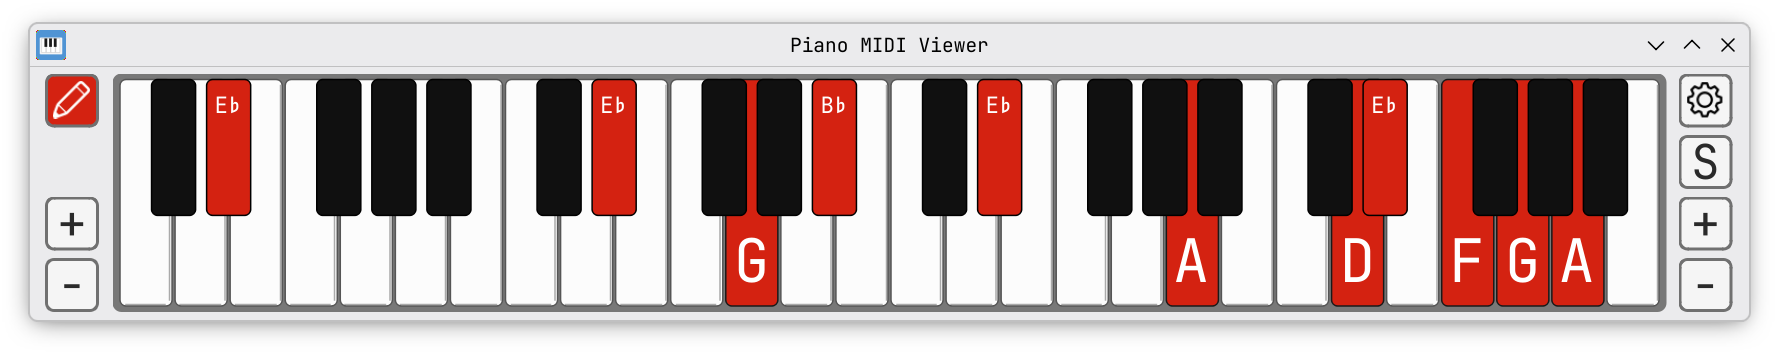
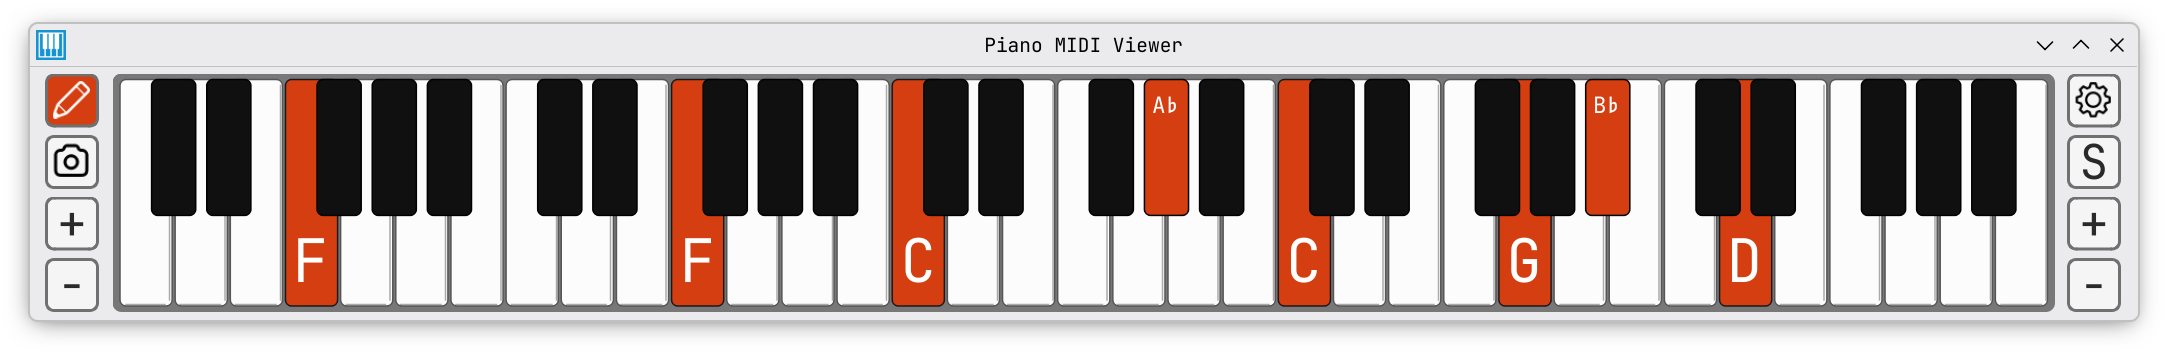
Update screenshots with velocity demonstration

diff --git a/README.md b/README.md
@@ -25,17 +25,17 @@ A piano keyboard on your screen that lights up when you play. Made for music tea
 
 *Default look*
 
-<img src="screenshots/sustained-blue-2-octaves.png" height="250">
+<img src="screenshots/sustained-blue-2-octaves-velocity.png" height="250">
 
-*Arch Blue, 2 octaves, showing sharps*
+*Arch Blue, 2 octaves, showing sharps, velocity brightness on*
 
 <img src="screenshots/pencil-tool-red-4-octaves.png" height="200">
 
 *Red, pencil tool active, 4 octaves, flats, labels only on pressed keys*
 
-<img src="screenshots/sustained-teal.png" height="250">
+<img src="screenshots/sustained-teal-1-octave-velocity.png" height="250">
 
-*Teal, both sharps and flats, no white key names*
+*Teal, 1 octave, both sharps and flats, velocity brightness on*
 
 ### Settings
 
